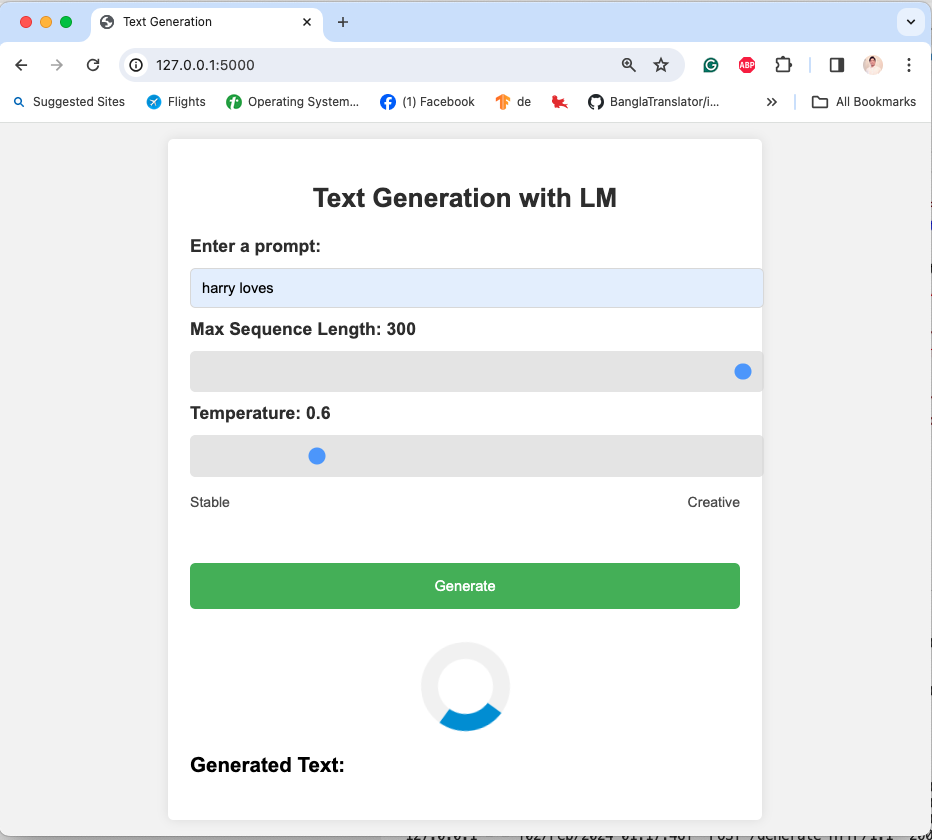
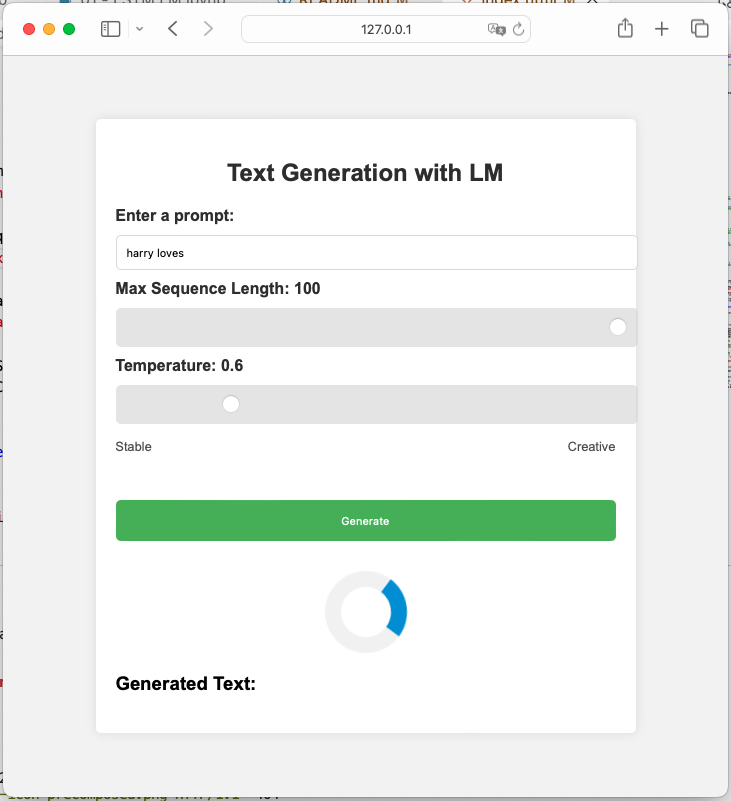
update screenshots

diff --git a/app/templates/index.html b/app/templates/index.html
@@ -119,7 +119,7 @@
             <input type="text" id="prompt" name="prompt" placeholder="Start typing..."><br>
 
             <label for="max_seq_len">Max Sequence Length: <span id="max_seq_len_value">30</span></label><br>
-            <input type="range" min="30" max="300" value="30" class="slider" id="max_seq_len" name="max_seq_len" oninput="document.getElementById('max_seq_len_value').innerHTML = this.value"><br>
+            <input type="range" min="30" max="100" value="30" class="slider" id="max_seq_len" name="max_seq_len" oninput="document.getElementById('max_seq_len_value').innerHTML = this.value"><br>
 
             <label for="temperature">Temperature: <span id="temperature_value">0.6</span></label><br>
             <input type="range" min="0.5" max="1.0" value="0.6" step="0.1" class="slider" id="temperature" name="temperature" oninput="document.getElementById('temperature_value').innerHTML = this.value">

diff --git a/README.md b/README.md
@@ -139,7 +139,7 @@ This task focuses on deploying the trained LSTM language model as an interactive
 
    <img src="figures/a2-app-2.png">
 
-   ***For Live Demo from Huggingface Space [https://huggingface.co/spaces/shaficse/a2-text-gen](https://huggingface.co/spaces/shaficse/a2-text-gen)***
+   ***For Live Demo from Huggingface Space [https://huggingface.co/spaces/shaficse/a2-text-gen](https://huggingface.co/spaces/shaficse/a2-text-gen)*** 
 3. **Interact with the Application**:
    - Access the web application through the provided URL.
    - Input your prompt and adjust generation parameters as desired.
